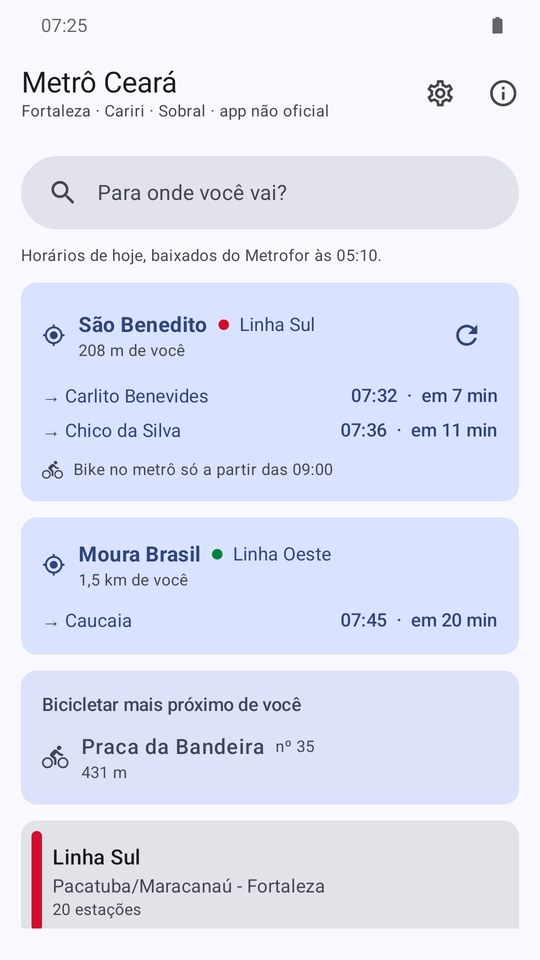
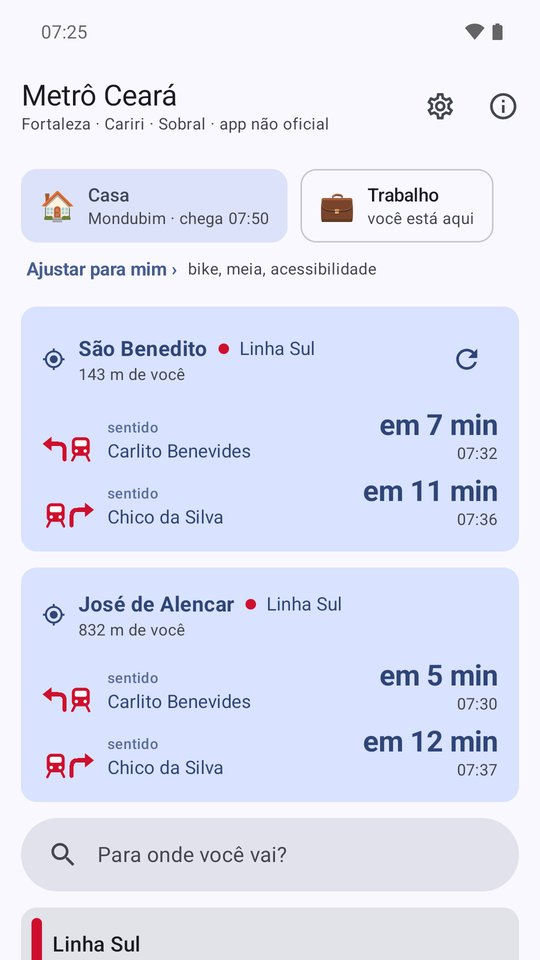
Documentação e captura da tela inicial nova
README com a ordem da tela inicial, "Ajustar para mim" e as duas
estações mais próximas; página e descrição da loja atualizadas; nova
captura 1 (loja e página).

diff --git a/docs/index.html b/docs/index.html
@@ -126,7 +126,7 @@
     <div class="features">
       <div class="feature">
         <h3>🚉 Próxima partida perto de você</h3>
-        <p>Pelo GPS, mostra a estação mais próxima e quando sai o próximo metrô ou VLT, em cada sentido — e as outras linhas que passam por perto.</p>
+        <p>Pelo GPS, mostra as duas estações mais próximas e em quantos minutos sai o próximo metrô ou VLT, em cada sentido. Casa e Trabalho ficam no topo, e você escolhe a ordem do resto.</p>
       </div>
       <div class="feature">
         <h3>🔔 Modo viagem</h3>
@@ -171,7 +171,7 @@
     </div>
 
     <div class="shots">
-      <figure><img src="img/tela-1.jpg" alt="Tela inicial com a busca Para onde você vai? e as estações mais próximas" loading="lazy"><figcaption>Estações perto de você</figcaption></figure>
+      <figure><img src="img/tela-1.jpg" alt="Tela inicial com Casa e Trabalho no topo e os próximos metrôs das duas estações mais próximas" loading="lazy"><figcaption>Estações perto de você</figcaption></figure>
       <figure><img src="img/tela-4.jpg" alt="Widgets na tela inicial com os próximos horários da estação" loading="lazy"><figcaption>Widget na tela inicial</figcaption></figure>
       <figure><img src="img/tela-2.jpg" alt="Horários de uma estação, com a integração com a Linha Nordeste" loading="lazy"><figcaption>Todos os horários</figcaption></figure>
       <figure><img src="img/tela-3.jpg" alt="Modo viagem com o aviso de descida" loading="lazy"><figcaption>Aviso para descer</figcaption></figure>

diff --git a/README.md b/README.md
@@ -71,10 +71,11 @@ para o mesmo lado (`ui/DirectionLabel.kt`). Na tela da estação, debaixo das ab
 onde ele passa: "Passa por **Padre Cícero, Porangabussu, Couto Fernandes,
 Juscelino Kubitscheck**… até Carlito Benevides · 16 estações" (as 4 primeiras
 estações do caminho; `data/DirectionVia.kt`). Pelo
-GPS, se houver estações de **outras linhas a até 3 km**, cada linha ganha seu
-cartão (por exemplo, Chico da Silva na Linha Sul e Moura Brasil na Oeste, a
-~200 m uma da outra). A busca **"Para onde você vai?"**, no topo, sai da estação
-em destaque ([abaixo](#para-onde-você-vai-roteiro-na-mesma-linha-ou-com-integração)). A
+GPS, aparecem as **duas estações mais próximas**, de qualquer linha (a segunda
+só até 3 km, ajustável): perto de São Benedito, São Benedito e José de Alencar;
+em Parangaba, a Linha Sul e a Nordeste. No cartão, o tempo que falta ("em 7
+min") vem grande e a hora embaixo. A busca **"Para onde você vai?"** sai da
+estação em destaque ([abaixo](#para-onde-você-vai-roteiro-na-mesma-linha-ou-com-integração)). A
 estação em destaque pode vir de duas fontes:
 
 - **A mais próxima de você**, o que exige `ACCESS_FINE_LOCATION`. A permissão só
@@ -87,6 +88,38 @@ estação em destaque pode vir de duas fontes:
 
 Sem permissão e sem estação fixada, o app continua inteiro: o cartão vira um
 convite e o resto funciona igual.
+
+### Ordem da tela inicial e "Ajustar para mim"
+
+O app faz muita coisa, mas o propósito é simples: a pessoa ver logo quando
+passa o próximo metrô. Por isso a tela inicial é uma lista de blocos e, no
+padrão, segue o perfil da maioria (quem vai e volta do trabalho ou da escola):
+
+1. **Trabalho e Casa**, com a faixa **"Ajustar para mim ›"** logo abaixo;
+2. **as duas estações mais próximas** (sempre aparecem: é o motivo do app);
+3. o **aviso do Metrofor** (operação especial, feriado);
+4. **"Para onde você vai?"**;
+5. as **rotinas**;
+6. o **Bicicletar** (só com "Levo bike");
+7. as **linhas**.
+
+**Ajustar para mim** (pela faixa ou no topo das Configurações; `ui/HomeLayoutScreens.kt`)
+são interruptores, sem cadastro e sem "perfil" (que lembra login): **Vou ao
+trabalho ou à escola** (Trabalho e Casa aparecem), **Levo bike** (a regra da
+bike no cartão e o Bicicletar; desligado no padrão), **Pago meia ou tenho
+gratuidade** (a passagem e o guia da meia no cartão), **Preciso de elevador ou
+rampa** (a acessibilidade da estação no cartão) e **Ainda não conheço o metrô**
+(a busca vai para o topo). A tela da estação continua mostrando tudo.
+
+**Ordem da tela inicial** tem a prévia da tela inicial em cima, na largura toda
+e sem receber toques, e embaixo cada bloco com liga/desliga à esquerda e **↑ ↓**
+à direita. Setas em vez de arrastar: um toque cada, funciona com letra grande e
+o TalkBack lê "Subir Trabalho e Casa". Mover mostra "agora é o 1º" com
+**Desfazer**; **Voltar ao padrão** pede confirmação e não mexe em Casa, Trabalho
+nem nos ajustes. As estações têm cadeado. Se a pessoa esconder o aviso do
+Metrofor, o dia especial aparece acima das estações mesmo assim. Tudo fica no
+aparelho (`data/HomeLayout.kt`, preferências `metrofor_home_layout`, à parte das
+Configurações). A lite só segue a ordem padrão, para continuar enxuta.
 
 A localização usa o `LocationManager` do próprio Android, sem Play Services.
 Para achar a posição, o app pede **ao mesmo tempo** ao provedor do Google
@@ -138,7 +171,7 @@ Quando a Nordeste ou o VLT Aeroporto começarem a cobrar, basta trocar as entrad
 ### "Para onde você vai?" (roteiro na mesma linha ou com integração)
 
 O jeito de ir de uma estação a outra é um só, como num app de corrida: uma barra
-**"Para onde você vai?"** no topo da tela inicial abre a tela **Sua viagem**
+**"Para onde você vai?"** na tela inicial abre a tela **Sua viagem**
 ([`ui/JourneyScreen.kt`](app/src/main/java/io/github/giova/metroceara/ui/JourneyScreen.kt)).
 A tela de cada estação tem o botão **"Ir daqui para outra estação"**, que abre a
 mesma tela saindo dali.
@@ -155,8 +188,8 @@ mesma tela saindo dali.
   o lugar e a estação mais perto dele, com a caminhada ("Fátima · Estação Borges
   de Melo · 630 m · 9 min a pé") e a chegada já contando ela. O roteiro termina
   a pé até a porta. Ver [Lugares](#lugares-busca-e-perto-desta-estação).
-- **Casa e Trabalho**, como num app de corrida: dois atalhos logo abaixo da
-  barra na tela inicial
+- **Casa e Trabalho**, como num app de corrida: dois atalhos no topo da tela
+  inicial
   ([`ui/PlaceShortcuts.kt`](app/src/main/java/io/github/giova/metroceara/ui/PlaceShortcuts.kt)).
   Na primeira vez, "🏠 Definir Casa" e "💼 Definir Trabalho" abrem a escolha da
   estação ("O app guarda só a estação, não o seu endereço"). Depois, cada
@@ -260,7 +293,7 @@ agora / Escolher horário, roteiro, outros horários), calculado por
 desloca" fica nessa tela e o navegador lembra. Na lite não há modo viagem: no
 lugar do botão, o **lembrete na agenda** e o convite para o app completo.
 **Casa e Trabalho** também estão na lite, guardados no navegador
-(`localStorage` "lugares"): os atalhos debaixo da barra levam ao roteiro
+(`localStorage` "lugares"): os atalhos no topo da tela inicial levam ao roteiro
 (`#/ir/casa`), a escolha da estação é uma tela própria (`#/lugar/casa`, com
 "Nenhuma") e o link **Trocar** faz o papel de tocar e segurar. Sem a
 localização, a tela inicial não sabe de onde a pessoa sai e os atalhos mostram
@@ -416,7 +449,8 @@ distância, em dois lugares (são 253 estações no banco, também offline). A
 capacidade de vagas, que o banco também guarda, não aparece: não é quantas
 bicicletas há agora e confundia.
 
-- **Na tela inicial**, num cartão próprio logo abaixo do da estação. Com GPS, a
+- **Na tela inicial**, num cartão próprio, para quem ligou **Levo bike** em
+  "Ajustar para mim". Com GPS, a
   distância é medida a partir de **você**, até 3 km — acima disso (fora de
   Fortaleza, por exemplo) o cartão some. Com estação fixada, é medida a partir
   da estação, até 600 m.
@@ -425,7 +459,7 @@ bicicletas há agora e confundia.
 
 Nas linhas Sul e Nordeste e no VLT de Sobral, o app diz também **se dá para embarcar com
 bicicleta agora** (no metrô ou no VLT, conforme a linha; o aviso some quando
-não há mais partidas no dia), na tela de partidas e no cartão da tela inicial. As
+não há mais partidas no dia), na tela de partidas e, com **Levo bike**, no cartão da tela inicial. As
 janelas vêm do regulamento
 [*Bike é bem-vinda no metrô*](https://www.ce.gov.br/metrofor/wp-content/uploads/sites/75/2023/03/Regula_Bikes_2023.pdf)
 (Metrofor, 2023): segunda a sexta das 9h às 15h e a partir das 20h; sábado a
@@ -728,7 +762,7 @@ próprias cores, em vermelho). Nas outras seções:
 
 | Ajuste | Padrão | Faixa |
 |---|---|---|
-| Mostrar outras linhas até | 3 km | 500 m – 5 km |
+| Segunda estação até | 3 km | 500 m – 5 km |
 | Bicicletar perto de você até | 3 km | 500 m – 5 km |
 | Bicicletar perto da estação até | 600 m | 200 m – 1,5 km |
 | Avisar antes do destino | 2 estações | 1 – 4 |
@@ -785,7 +819,7 @@ grade do dia já saiu), o app calcula o metrô do dia pela grade e pelo roteiro
 tempo. **Domingo sem operação não avisa; em feriado e operação especial vale a
 grade do dia, e linha parada fica de fora.** O aviso é o mesmo de "Avisar pelo
 app", com **Hoje não vou** no lugar de Cancelar. A tela **Suas rotinas** (com uma
-linha "Rotinas: …" abaixo da busca na tela inicial, quando há alguma) mostra cada
+linha "Rotinas: …" na tela inicial, quando há alguma) mostra cada
 uma com a chave de ligar e o aviso já marcado ("Aviso marcado: sair às 11:44
 para o metrô das 12:14").
 
@@ -848,12 +882,10 @@ com a guardada: são ~30 KB (o zip de dia útil tem ~29 KB, o de sábado ~20 KB,
 o índice 0,5 KB), e assim qualquer mudança chega na abertura seguinte; um
 download cortado (app fechado no meio) é refeito na próxima abertura. Sem
 internet (ou antes de a grade do dia chegar), o app usa a última grade do mesmo
-tipo. O banco do APK fica como último recurso. Uma linha no topo da tela inicial
-diz de onde vêm os horários, sem botão de baixar de novo: "Horários de hoje,
-baixados do Metrofor às 02:42." ou, com a grade de outro dia do mesmo tipo,
-"Horários de dia útil, publicados pelo Metrofor.", em cinza e sem data, porque a
-grade de um dia útil comum é igual à do anterior. Só vira **aviso em vermelho**
-quando importa: a grade do APK, ou dia com operação especial anunciada sem a
+tipo. O banco do APK fica como último recurso. De onde vêm os horários ("Horários
+de hoje, baixados do Metrofor às 02:42.") fica em **Fonte ›**, na tela da
+estação; no topo da tela inicial só aparece, como **aviso em vermelho**, quando
+importa: a grade do APK, ou dia com operação especial anunciada sem a
 grade do dia ("Hoje tem operação especial e os horários do dia ainda não
 chegaram. Veja a notícia do Metrofor."). A lite segue a mesma regra no rodapé.
 
@@ -1201,7 +1233,10 @@ mesmos dados do `app_start`).
 Para quem tem iPhone (e para quem prefere não instalar APK) há uma versão
 web instalável (PWA), a **versão lite**, neste mesmo repositório. Fica de
 fora de propósito o que depende do celular em segundo plano: modo viagem, voz,
-registro de testes — esses ficam só no app de Android. O navegador não consegue baixar
+registro de testes — esses ficam só no app de Android. A tela inicial segue a
+mesma ordem padrão do app (Trabalho e Casa, as duas estações mais próximas com o
+tempo que falta grande, o aviso do Metrofor, "Para onde você vai?" e as linhas),
+sem "Ajustar para mim" nem a escolha da ordem. O navegador não consegue baixar
 o GTFS direto do Metrofor — o certificado costuma estar vencido e o site não
 libera acesso a partir de outras páginas —, então os horários chegam prontos:
 
